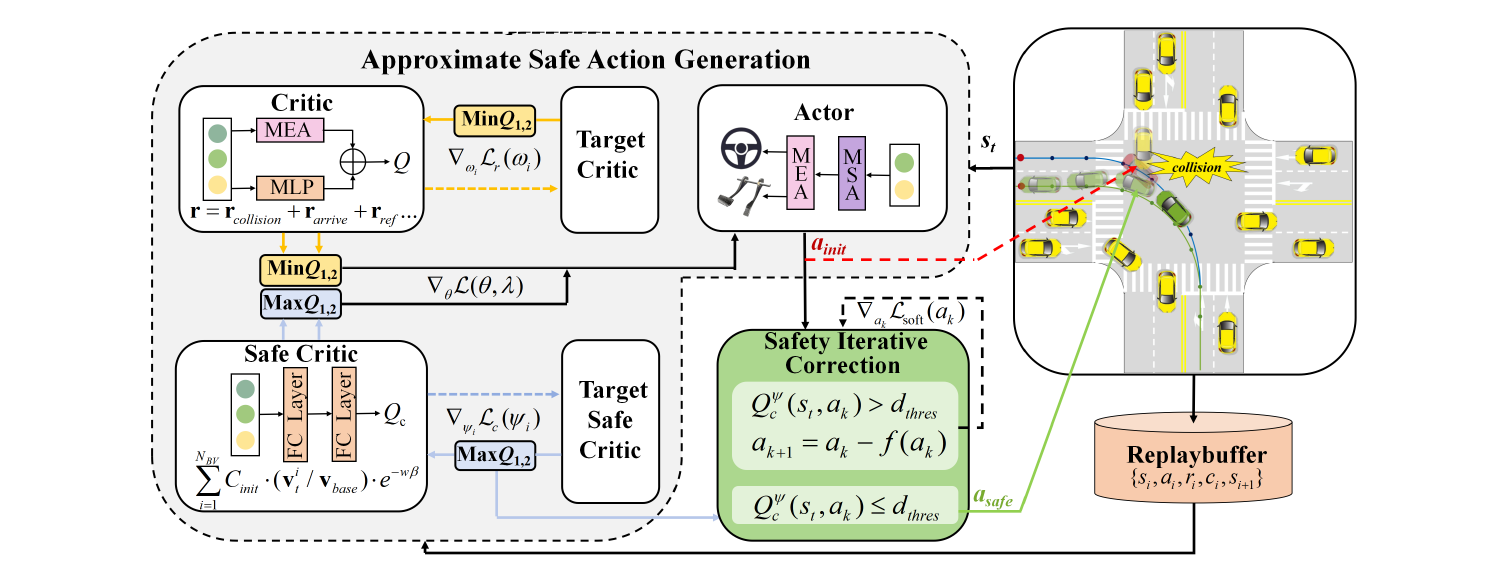
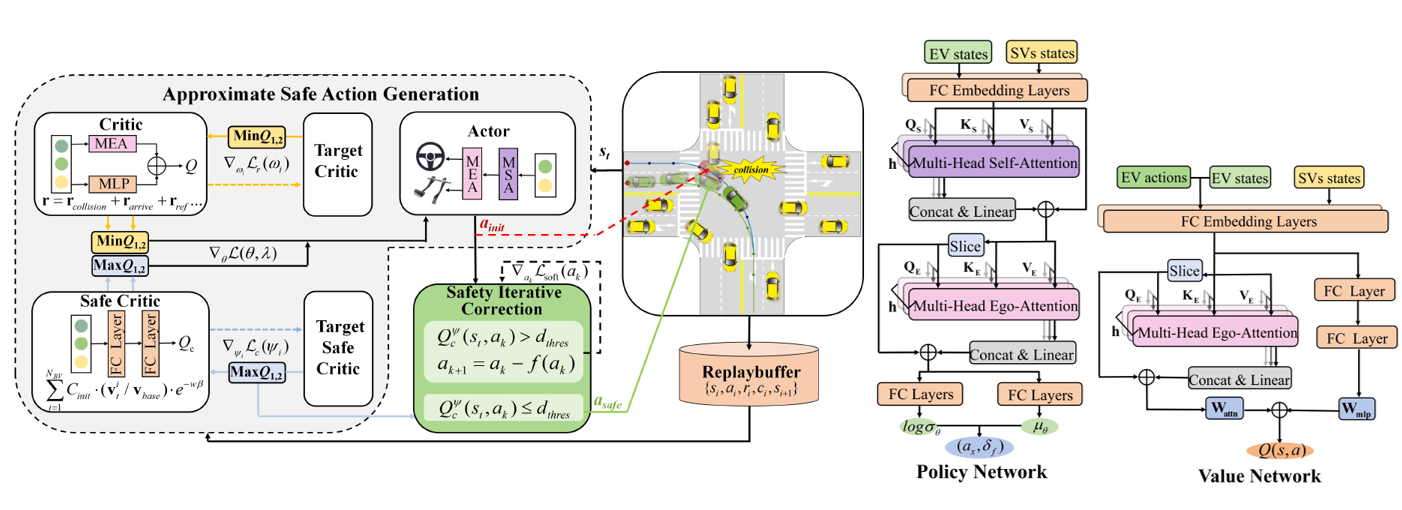
add EAAI

diff --git a/_researches/safe-reinforcement-learning-for-autonomous-driving.md b/_researches/safe-reinforcement-learning-for-autonomous-driving.md
@@ -25,9 +25,11 @@ Proposeing a safety enhanced deep reinforcement learning for autonomous motion p
 
 #### **Some Results**
 ![png](/assets/img/researches/safe/traincurve.png) 
-![png](/assets/img/researches/safe/testTR.png) 
+![png](/assets/img/researches/safe/testTR.png)
+
+
 ![png](/assets/img/researches/safe/highenvgif.gif)
-Proposed safety enhanced DRL approach could improve the driving performance, espeacially in safety metrics such as reducing collision rate, anticipated risk, etc.
+Proposing safety enhanced DRL approach could improve the driving performance, espeacially in safety metrics such as reducing collision rate, anticipated risk, etc.
 
 More details can be found in our recent paper "Safety Enhanced Reinforcement Learning for Autonomous Driving: Dare to Make Mistakes to Learn Faster and Better." (under review, it will come soon)
 
@@ -35,15 +37,30 @@ More details can be found in our recent paper "Safety Enhanced Reinforcement Lea
 Collaborating student: *Ran Yu, 1st-year Gruaduate Student*.
 
 #### **Motivation**
-Deep reinforcement learning (DRL) has become a powerful method for autonomous driving while often lacking safety guarantees.
+The inability to handle the dynamic changes in the number and permutation of surroundings traffic participants may make it difficult for AVs to identify potential risks and adopt unsafe strategies. Moreover, the complex information at these intersections requires the AV to identify pivotal data to ascertain the timing of passage.
 
 ![png](/assets/img/researches/safe/featured2.png) 
+
+A risk-aware RL approach is proposed to improve safety and efficiency for driving through intersection.
+
+#### **Highlights**
+- Safe critics are constructed to evaluate driving risk and work in conjunction with the reward critic to update the actor. 
+- A Lagrangian relaxation method is incorporated to generate approximate safe actions, which are projected into a feasible safe region with safety iterative correction by cyclic gradient descent.
+- A Multi-hop and Multi-layer perception mixed Attention Mechanism (MMAM) integrated into the actorcritic network enables the policy to adapt to dynamic traffic and overcome permutation sensitivity challenges, enhancing scene understanding and improving decision-making timing when navigating intersections.
+
+#### **Some Results**
+We compare Attention embedded and Risk-aware Soft Actor Critic (ARSAC) to the following baselines: SAC-RS, PPO-RS, which incorporate an auxiliary reward 𝐫_𝑠𝑎𝑓𝑒 compared to standard SAC and PPO; SAC-Lag and CPO. The implementation of SAC-Lag and CPO are based on Omnisafe Library.
+![png](/assets/img/researches/safe/EAAIresult1.png) 
+![png](/assets/img/researches/safe/EAAIresult2.png) 
+
+Results indicate that the proposed ARSAC algorithm outperforms or matches all other baseline algorithms across three driving tasks in terms of the final performance. Meanwhile, ablation studies demonstrate the specific role of different modules.
+
+![png](/assets/img/researches/safe/EAAIcase1.png) 
+![png](/assets/img/researches/safe/EAAIcase2.png) 
 
 ### **Current Work**
 - Combination hard-constraints and policy optimization during safe training.
 - A learnable evaluation module to predict the anticipated risk.
-- Considering interaction features in critic network design based on Game-Theory.
-- Application of self-attention mechanisms in policy network design
 
 
 ### **Publications:**
